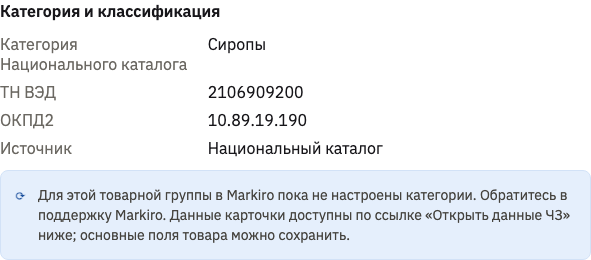
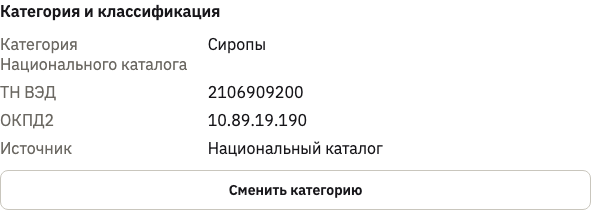
test(catalog): give the category block a populated options list

diff --git a/tools/production-browser/tests/catalog.visual.spec.ts b/tools/production-browser/tests/catalog.visual.spec.ts
@@ -56,6 +56,8 @@ const COPY = {
     unit: "шт",
     priceType: "Розничная",
     categoryName: "Сиропы",
+    siblingCategoryJuice: "Соки и нектары",
+    siblingCategoryJam: "Джемы и варенье",
     attrVolume: "Объём",
     attrComposition: "Состав",
     attrPackage: "Упаковка",
@@ -76,6 +78,8 @@ const COPY = {
     unit: "pcs",
     priceType: "Retail",
     categoryName: "Syrups",
+    siblingCategoryJuice: "Juices and nectars",
+    siblingCategoryJam: "Jams and preserves",
     attrVolume: "Volume",
     attrComposition: "Composition",
     attrPackage: "Package",
@@ -421,10 +425,39 @@ function fixtures(locale: AdminLocale) {
    * `CategoryBinding` fetches this eagerly whenever the viewer can write and
    * the product is not archived -- before "change category" is ever opened --
    * so a strict mock has to answer it even though none of these frames open
-   * that editor. An empty list satisfies the schema without inventing a
-   * second category the document never shows.
+   * that editor. This MUST stay non-empty: `CategoryBinding.tsx` renders its
+   * "no categories configured" info alert exactly when `items.length === 0`,
+   * and that alert would sit directly under a confirmed category binding,
+   * contradicting the frame the document actually needs to show. The bound
+   * category reuses `copy.categoryName` and the profile's own ids so the two
+   * blocks agree; two siblings make the (unopened) picker read as a real
+   * choice rather than a list of one.
    */
-  const REGULATORY_CATEGORY_OPTIONS = { items: [] };
+  const REGULATORY_CATEGORY_OPTIONS = {
+    items: [
+      {
+        schemaVersionId: "40000000-0000-4000-8000-000000000001",
+        categoryId: "cat-syrup",
+        categoryName: copy.categoryName,
+        selectors: { catId: 118 },
+        mappingState: "exact" as const,
+      },
+      {
+        schemaVersionId: "40000000-0000-4000-8000-000000000002",
+        categoryId: "cat-juice",
+        categoryName: copy.siblingCategoryJuice,
+        selectors: { catId: 119 },
+        mappingState: "ambiguous" as const,
+      },
+      {
+        schemaVersionId: "40000000-0000-4000-8000-000000000003",
+        categoryId: "cat-jam",
+        categoryName: copy.siblingCategoryJam,
+        selectors: { catId: 120 },
+        mappingState: "unmapped" as const,
+      },
+    ],
+  };
 
   type Scenario = "list" | "listWithPlaque" | "productActive" | "productDraft" | "productNew";
 
